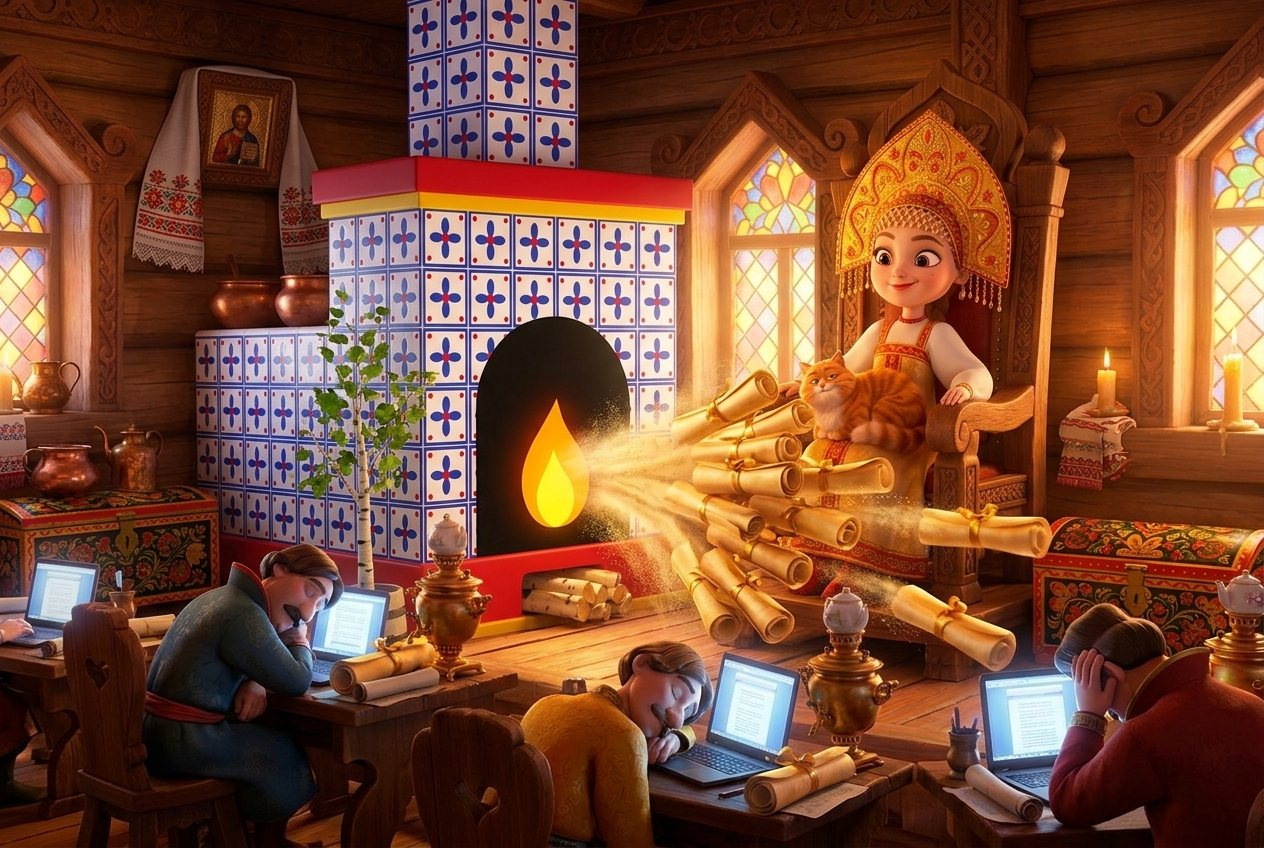
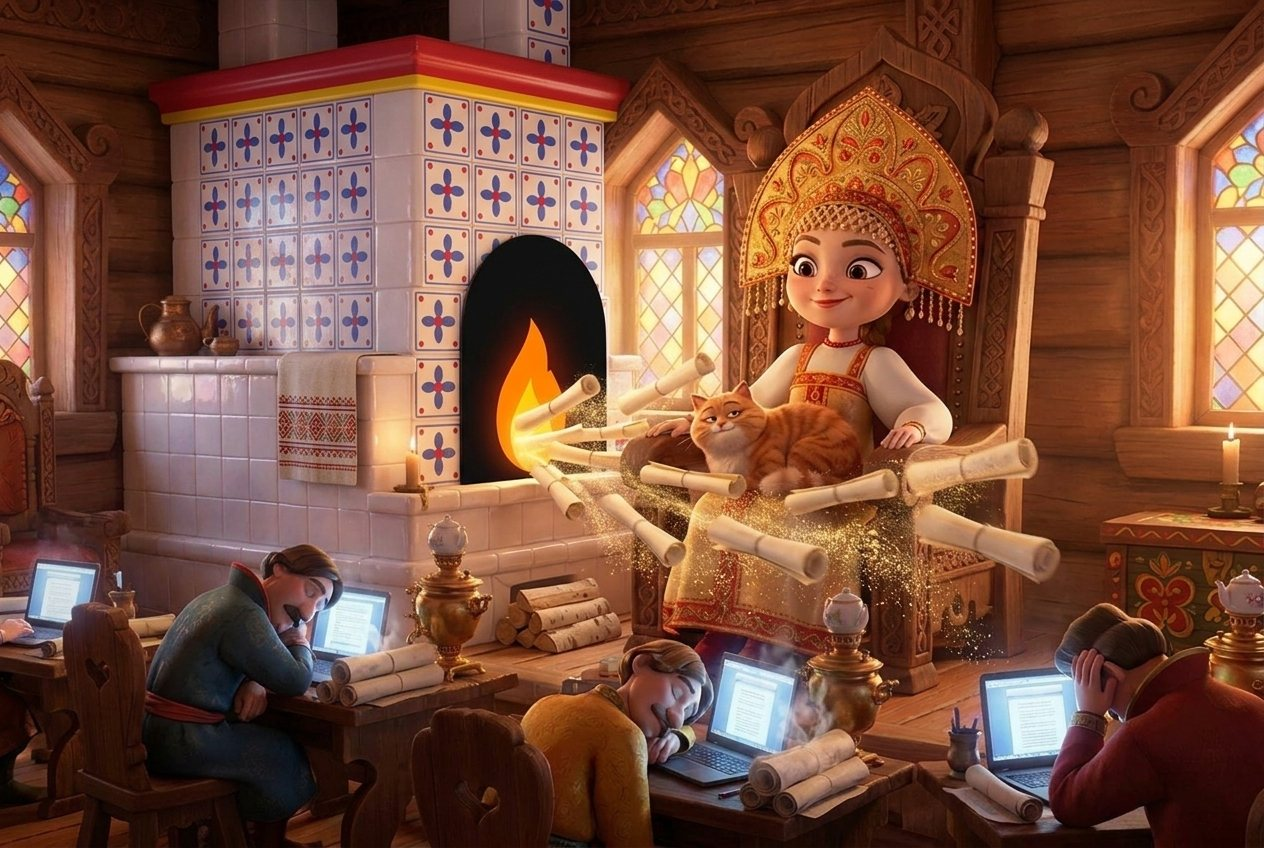
Превью: tender-pech-chistovik

diff --git a/tender-pech-chistovik/index.html b/tender-pech-chistovik/index.html
@@ -2,4 +2,4 @@
 <style>body{margin:0;background:#f6f1e7;font-family:system-ui,sans-serif;color:#222}h1{font-size:28px;margin:24px 16px 4px}p{margin:0 16px 20px;font-size:18px}
 main{display:grid;gap:28px;padding:0 16px 40px;max-width:1400px;margin:auto}figure{margin:0}img{width:100%;border-radius:12px;display:block}
 figcaption{font-size:24px;margin-top:8px}b{display:inline-block;background:#222;color:#fff;border-radius:50%;width:36px;height:36px;text-align:center;line-height:36px;margin-right:8px}</style></head>
-<body><h1>Тендер-печь: чистовая раскадровка</h1><p>Тёплый 3D, фирменная печь. Правки пиши по номерам кадров.</p><main><figure><img src="c01-galaktika.jpg" loading="lazy"><figcaption><b>1</b> Галактика</figcaption></figure><figure><img src="c02-moskva.jpg" loading="lazy"><figcaption><b>2</b> Полёт к Москве</figcaption></figure><figure><img src="c03-terem.jpg" loading="lazy"><figcaption><b>3</b> Терем «Тендерный отдел»</figcaption></figure><figure><img src="c04-tron.jpg" loading="lazy"><figcaption><b>4</b> Мария Прекрасная на троне</figcaption></figure><figure><img src="c05-orda.jpg" loading="lazy"><figcaption><b>5</b> Орда менеджеров</figcaption></figure><figure><img src="c06-ploshchadki.jpg" loading="lazy"><figcaption><b>6</b> Площадки, тендеры уходят</figcaption></figure><figure><img src="c07-skoro.jpg" loading="lazy"><figcaption><b>7</b> «Скоро будет»</figcaption></figure><figure><img src="c08-mimo206.jpg" loading="lazy"><figcaption><b>8</b> Мимо 206-й</figcaption></figure><figure><img src="c09-izba208.jpg" loading="lazy"><figcaption><b>9</b> Изба 208</figcaption></figure><figure><img src="c10-izba210.jpg" loading="lazy"><figcaption><b>10</b> Изба 210</figcaption></figure><figure><img src="c11-chudo.jpg" loading="lazy"><figcaption><b>11</b> Появление печи</figcaption></figure><figure><img src="c12-pechet.jpg" loading="lazy"><figcaption><b>12</b> Печь печёт сметы</figcaption></figure><figure><img src="c13-rabota.jpg" loading="lazy"><figcaption><b>13</b> Работа за 15 минут</figcaption></figure><figure><img src="c14-final.jpg" loading="lazy"><figcaption><b>14</b> Финал</figcaption></figure></main></body></html>
+<body><h1>Тендер-печь: чистовая раскадровка</h1><p>Тёплый 3D, фирменная печь. Версия 2: правки внесены. Правки пиши по номерам кадров.</p><main><figure><img src="c01-galaktika.jpg?v=2" loading="lazy"><figcaption><b>1</b> Галактика</figcaption></figure><figure><img src="c02-moskva.jpg?v=2" loading="lazy"><figcaption><b>2</b> Полёт к Москве</figcaption></figure><figure><img src="c03-terem.jpg?v=2" loading="lazy"><figcaption><b>3</b> Терем «Тендерный отдел»</figcaption></figure><figure><img src="c04-tron.jpg?v=2" loading="lazy"><figcaption><b>4</b> Мария Прекрасная на троне</figcaption></figure><figure><img src="c04b-gde-smety.jpg?v=2" loading="lazy"><figcaption><b>5</b> «Где сметы?!»</figcaption></figure><figure><img src="c05-orda.jpg?v=2" loading="lazy"><figcaption><b>6</b> Орда менеджеров</figcaption></figure><figure><img src="c06-ploshchadki.jpg?v=2" loading="lazy"><figcaption><b>7</b> Площадки, тендеры уходят</figcaption></figure><figure><img src="c07-skoro.jpg?v=2" loading="lazy"><figcaption><b>8</b> «Скоро будет»</figcaption></figure><figure><img src="c08-mimo206.jpg?v=2" loading="lazy"><figcaption><b>9</b> Мимо 206-й</figcaption></figure><figure><img src="c09-izba208.jpg?v=2" loading="lazy"><figcaption><b>10</b> Изба 208</figcaption></figure><figure><img src="c10-izba210.jpg?v=2" loading="lazy"><figcaption><b>11</b> Изба 210</figcaption></figure><figure><img src="c11-chudo.jpg?v=2" loading="lazy"><figcaption><b>12</b> Появление печи</figcaption></figure><figure><img src="c12-pechet.jpg?v=2" loading="lazy"><figcaption><b>13</b> Печь печёт сметы</figcaption></figure><figure><img src="c13-rabota.jpg?v=2" loading="lazy"><figcaption><b>14</b> Работа за 15 минут</figcaption></figure><figure><img src="c14-final.jpg?v=2" loading="lazy"><figcaption><b>15</b> Финал: победа в тендере</figcaption></figure></main></body></html>
